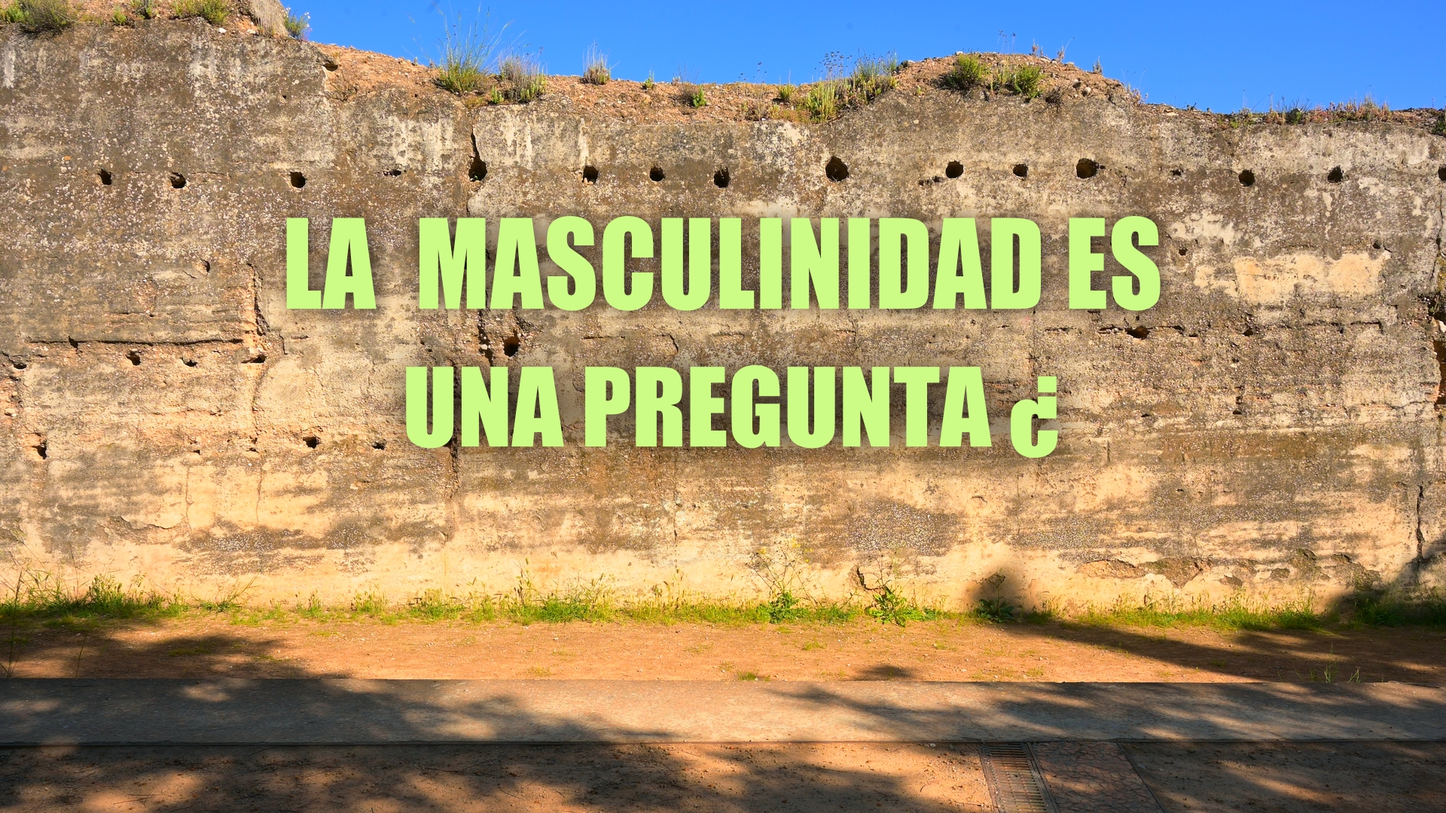
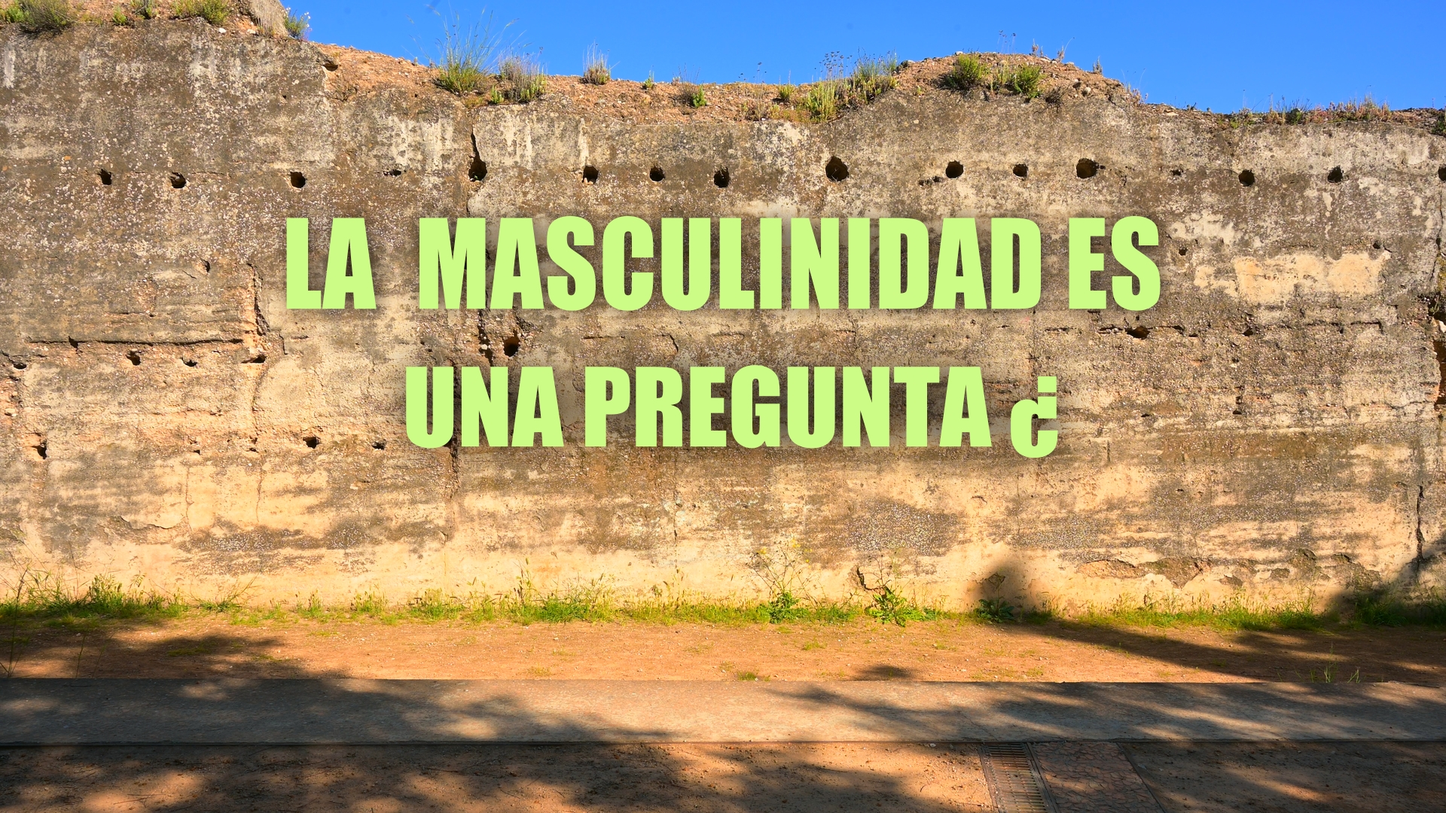
s
s

diff --git a/subdirectorios/docuweb/docuweb-mobile.html b/subdirectorios/docuweb/docuweb-mobile.html
@@ -17,9 +17,13 @@
 <body>
   <div id="loading-screen">Cargando…</div>
   <div id="overlay" class="hidden" aria-hidden="false">
-    <video id="phoneVideo" playsinline muted preload="auto"></video>
+    <video id="phoneVideo" playsinline muted preload="auto" controls>
+      <source src="https://customer-rkin2iztax47x9b5.cloudflarestream.com/88adbd8510319eed50482b7f6b311a42/manifest/video.m3u8" type="application/x-mpegURL">
+      Tu navegador no soporta este video.
+    </video>
     <div id="prompt">Gira tu móvil a horizontal para ir al contenido. Mientras tanto, mira este avance.</div>
     <div id="rotateHint">Cuando el móvil esté en horizontal, se abrirá el contenido.</div>
+
   </div>
   <script src="https://cdn.jsdelivr.net/npm/hls.js@latest"></script>
   <script>
@@ -40,6 +44,7 @@
         return hls;
       } else {
         video.src = url;
+        video.load();
         video.addEventListener('loadedmetadata', ()=>{ video.play().catch(()=>{}); });
         return null;
       }
@@ -48,7 +53,7 @@
     function finishLoading(){
       loading.classList.add('hidden');
       overlay.classList.remove('hidden');
-      hlsInstance = attachHls(STREAM_URL);
+      hlsInstance = attachHls(STREAM_URL.trim());
     }
 
     function redirectToContent(){

diff --git a/subdirectorios/docuweb/docuweb.html b/subdirectorios/docuweb/docuweb.html
@@ -794,7 +794,7 @@
     </div>
     <video playsinline id="video-background" poster="intro.jpg" muted
       style="width: 100%; height: 100%; object-fit: cover; position: absolute; top: 0; left: 0; z-index: 1;">
-      <source src="https://customer-rkin2iztax47x9b5.cloudflarestream.com/45e184b32013cbe381fd33a05931a48b/manifest/video.m3u8" type="application/x-mpegURL">
+      <source src="https://customer-rkin2iztax47x9b5.cloudflarestream.com/43385aff7a1ec19f10482f68a1394852/manifest/video.m3u8" type="application/x-mpegURL">
       <source src="intro.mp4" type="video/mp4">
       <source src="intro.webm" type="video/webm">
       <source src="intro.mov" type="video/mov">
